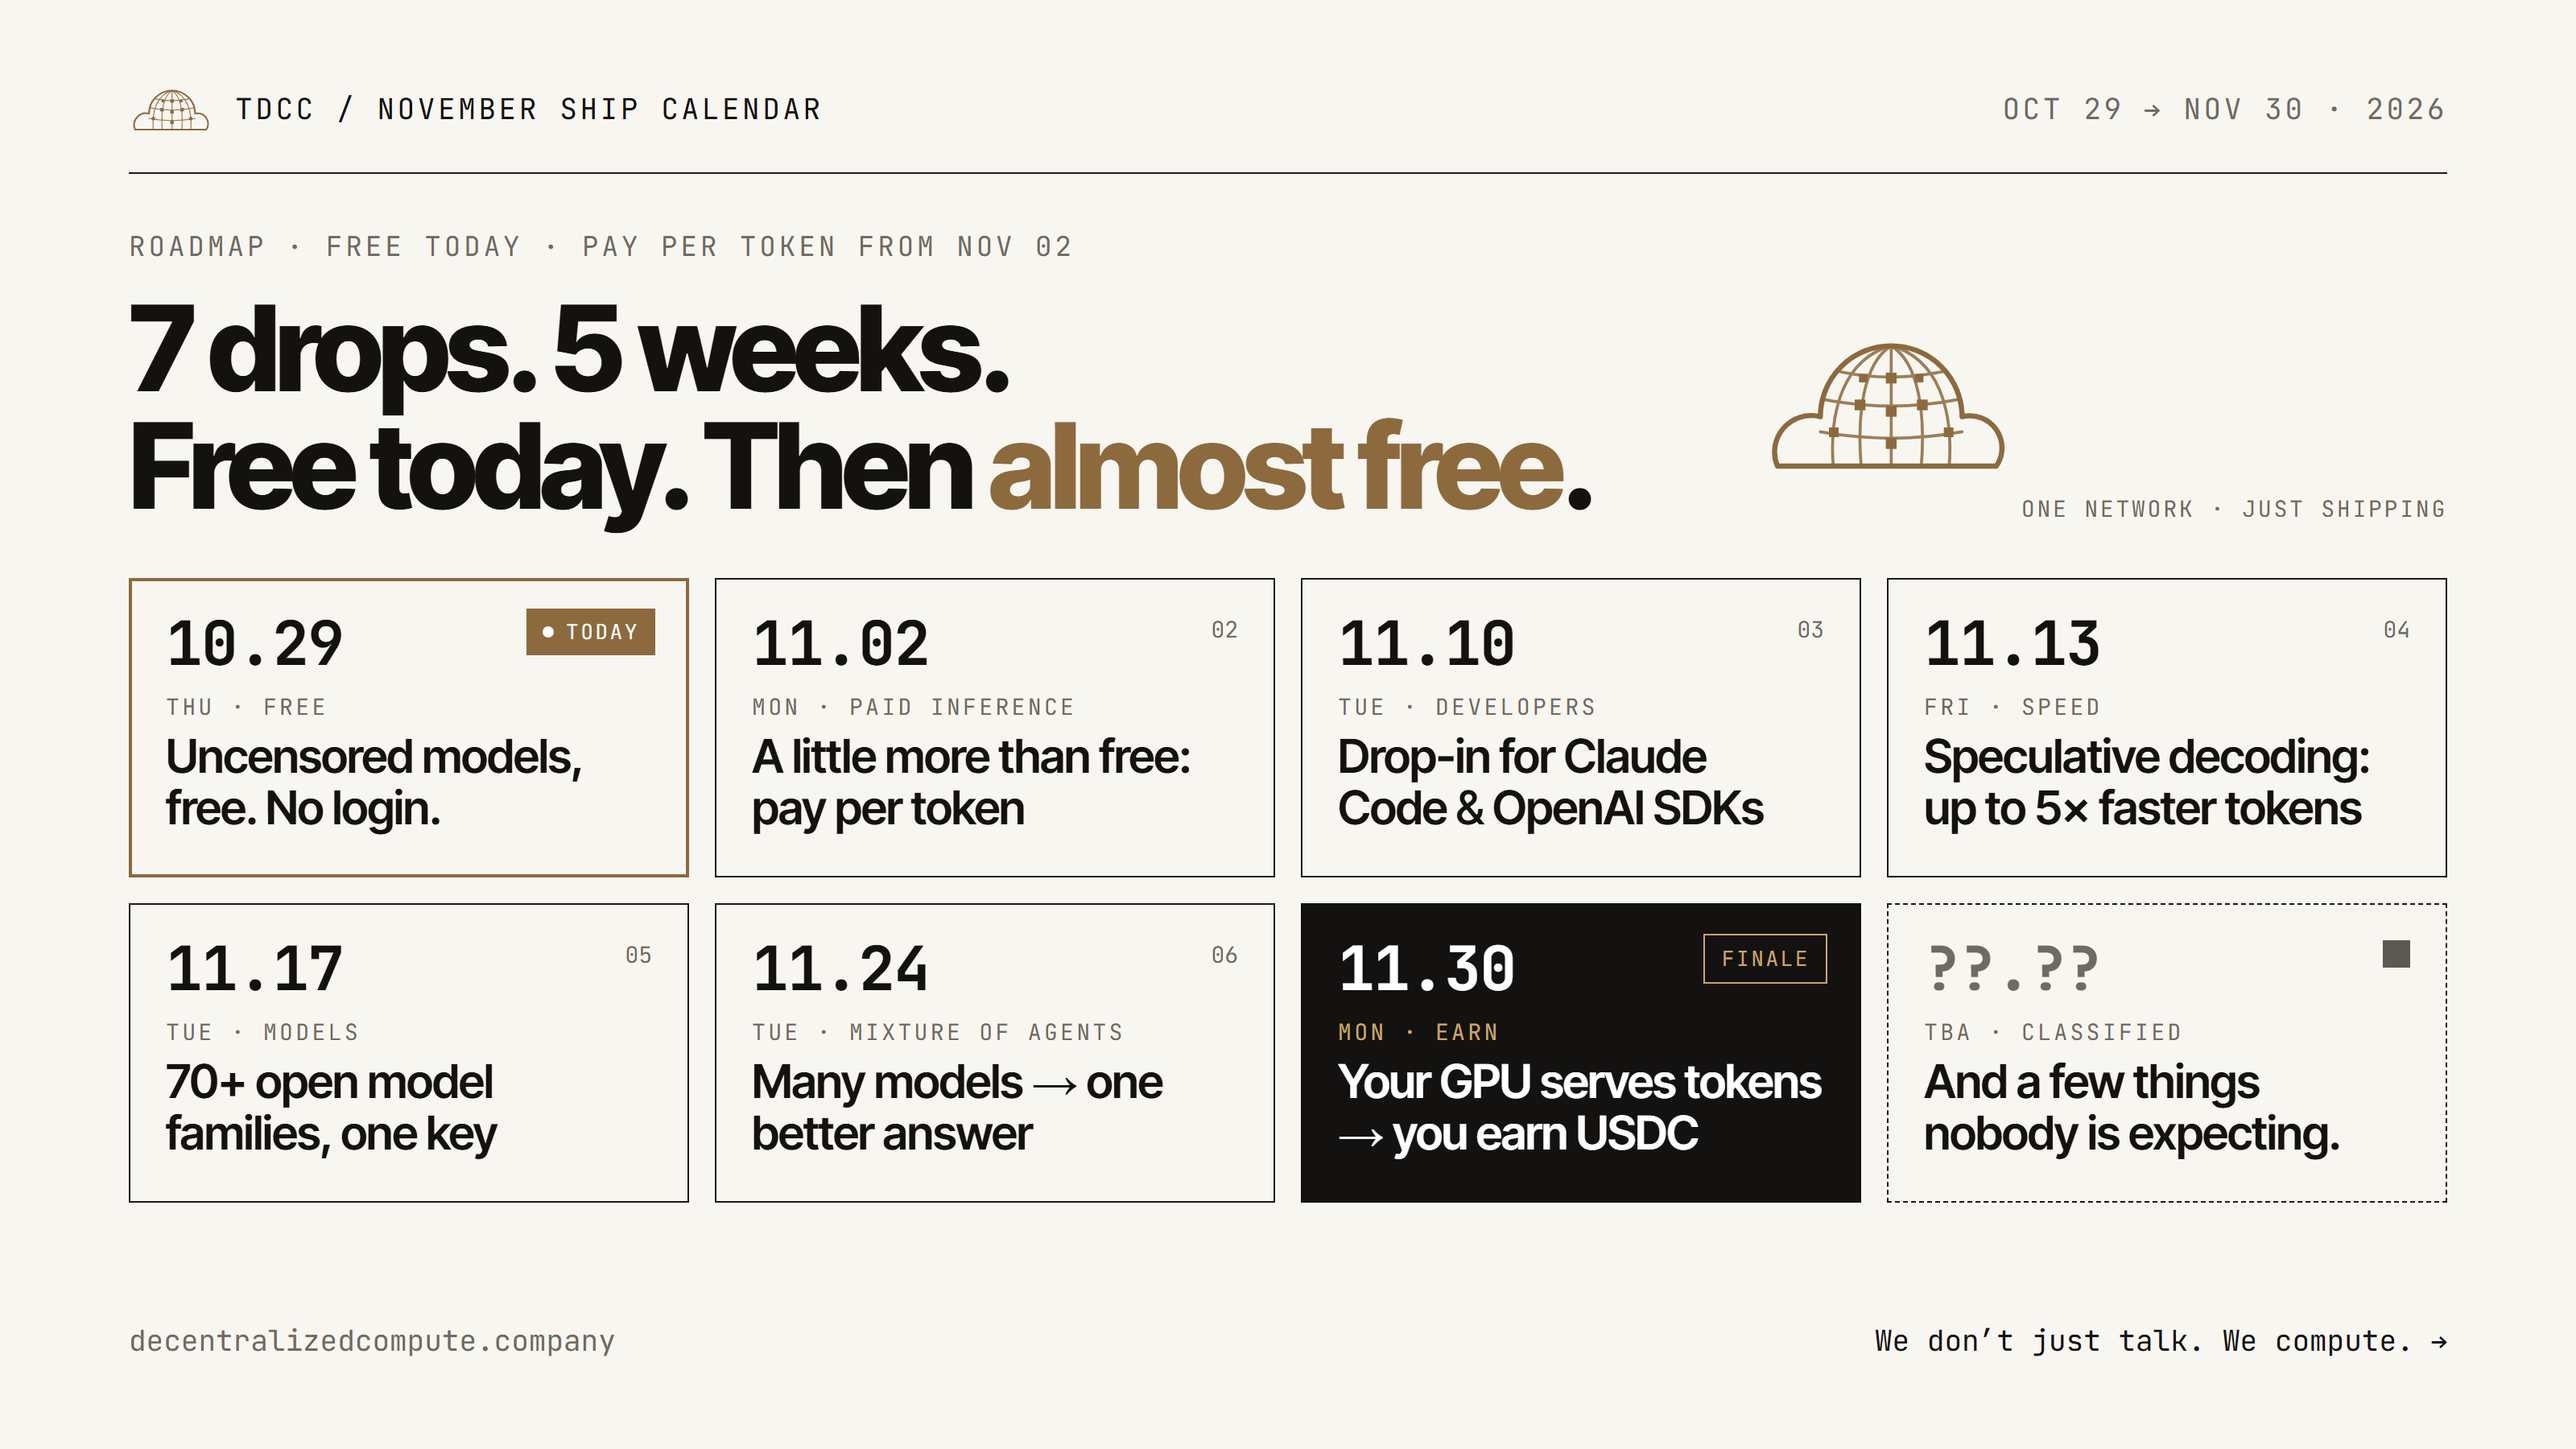
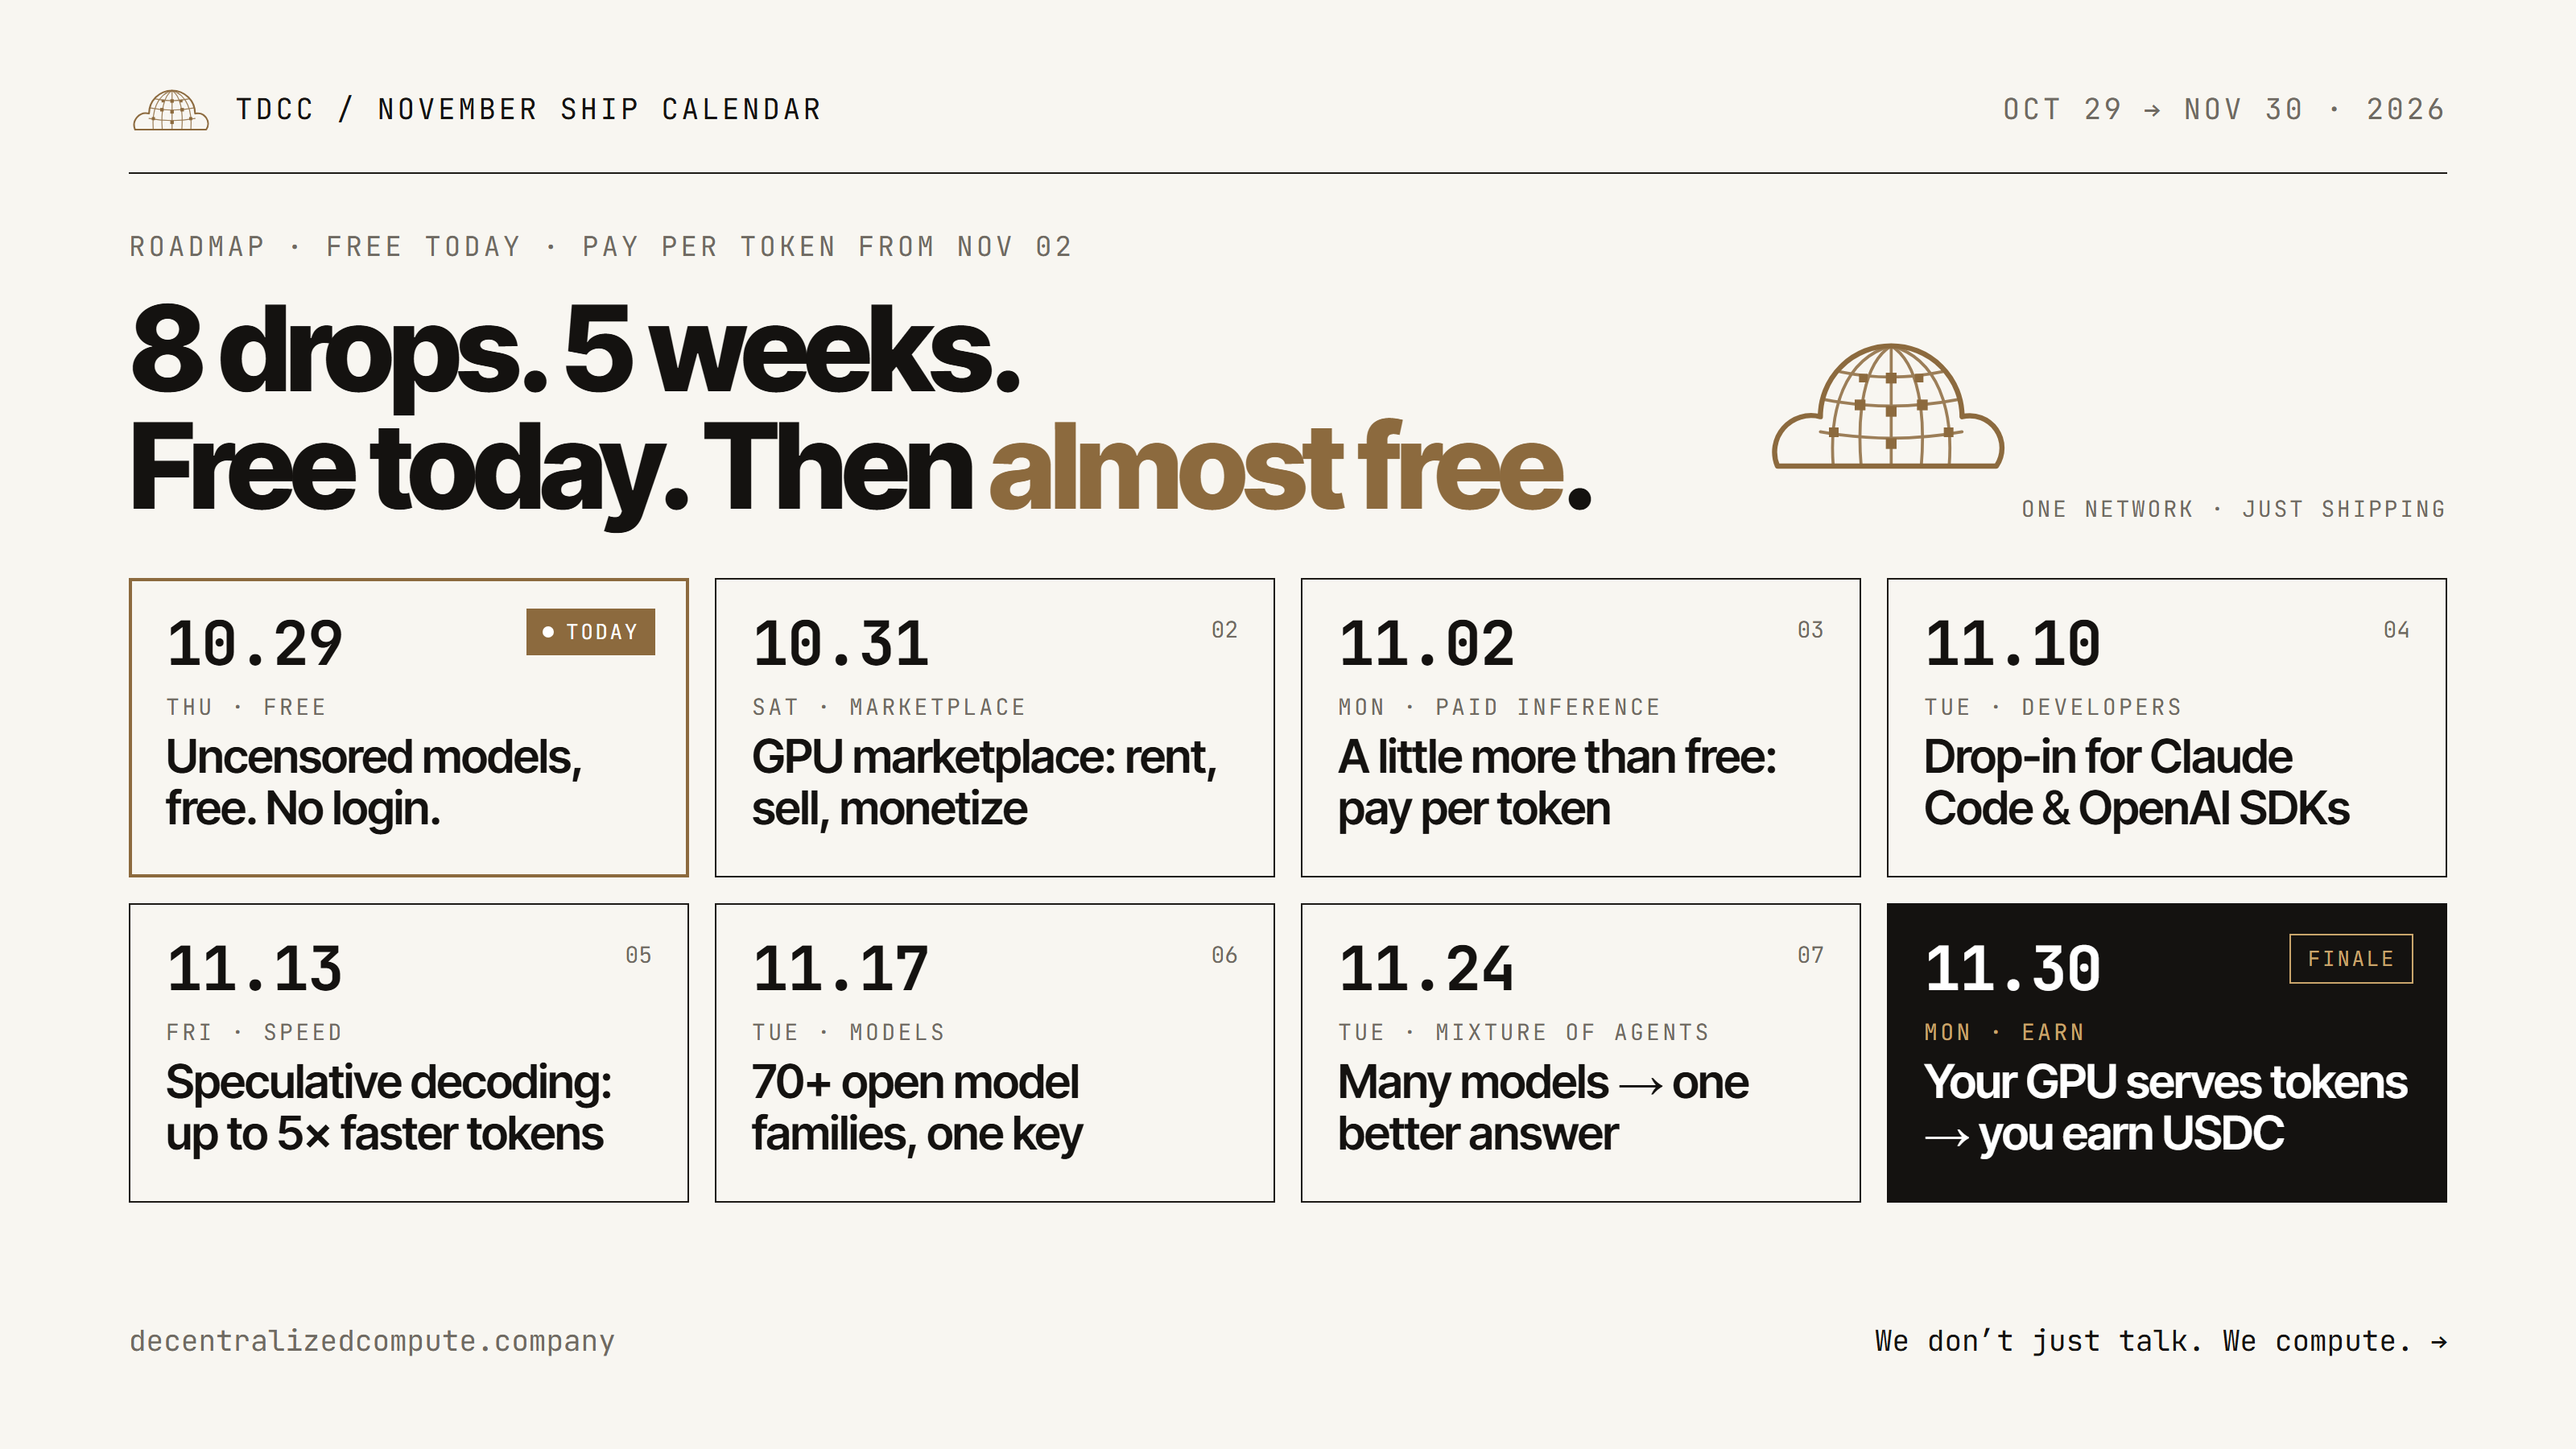
feat(social): add the Oct 31 marketplace drop and the X thread
The calendar now has 8 drops (Oct 31 GPU marketplace added, the TBA card
dropped). social/november-calendar-post.md holds the 10-post thread,
image alt text and the replies for each drop day.

diff --git a/social/november-ship-calendar.html b/social/november-ship-calendar.html
@@ -83,7 +83,7 @@
     <div class="head">
       <div>
         <div class="kicker">ROADMAP &middot; FREE TODAY &middot; PAY PER TOKEN FROM NOV 02</div>
-        <h1>7 drops. 5 weeks.<br />Free today. Then <span class="acc">almost free</span>.</h1>
+        <h1>8 drops. 5 weeks.<br />Free today. Then <span class="acc">almost free</span>.</h1>
       </div>
       <div class="mark">
         <svg aria-hidden="true"><use href="#mark" /></svg>
@@ -98,27 +98,32 @@
         <h3>Uncensored models, free. No login.</h3>
       </div>
       <div class="drop">
-        <div class="d">11.02</div><span class="n">02</span>
+        <div class="d">10.31</div><span class="n">02</span>
+        <div class="k">SAT &middot; MARKETPLACE</div>
+        <h3>GPU marketplace: rent, sell, monetize</h3>
+      </div>
+      <div class="drop">
+        <div class="d">11.02</div><span class="n">03</span>
         <div class="k">MON &middot; PAID INFERENCE</div>
         <h3>A little more than free: pay per token</h3>
       </div>
       <div class="drop">
-        <div class="d">11.10</div><span class="n">03</span>
+        <div class="d">11.10</div><span class="n">04</span>
         <div class="k">TUE &middot; DEVELOPERS</div>
         <h3>Drop-in for Claude Code <span class="arr">&amp;</span> OpenAI SDKs</h3>
       </div>
       <div class="drop">
-        <div class="d">11.13</div><span class="n">04</span>
+        <div class="d">11.13</div><span class="n">05</span>
         <div class="k">FRI &middot; SPEED</div>
         <h3>Speculative decoding: up to 5&times; faster tokens</h3>
       </div>
       <div class="drop">
-        <div class="d">11.17</div><span class="n">05</span>
+        <div class="d">11.17</div><span class="n">06</span>
         <div class="k">TUE &middot; MODELS</div>
         <h3>70+ open model families, one key</h3>
       </div>
       <div class="drop">
-        <div class="d">11.24</div><span class="n">06</span>
+        <div class="d">11.24</div><span class="n">07</span>
         <div class="k">TUE &middot; MIXTURE OF AGENTS</div>
         <h3>Many models <span class="arr">&rarr;</span> one better answer</h3>
       </div>
@@ -126,11 +131,6 @@
         <div class="d">11.30</div><span class="badge">FINALE</span>
         <div class="k">MON &middot; EARN</div>
         <h3>Your GPU serves tokens <span class="arr">&rarr;</span> you earn USDC</h3>
-      </div>
-      <div class="drop tba">
-        <div class="d">??.??</div><span class="sq"></span>
-        <div class="k">TBA &middot; CLASSIFIED</div>
-        <h3>And a few things nobody is expecting.</h3>
       </div>
     </div>
 

diff --git a/social/november-calendar-post.md b/social/november-calendar-post.md
@@ -1,0 +1,92 @@
+# November ship calendar: X thread
+
+Image: `assets/november-ship-calendar.png` (attach to post 1).
+
+Alt text for the image:
+> TDCC ship calendar, Oct 29 to Nov 30, 2026. "8 drops. 5 weeks. Free today. Then almost free."
+> Oct 29: uncensored models, free, no login. Oct 31: GPU marketplace. Nov 2: pay per token.
+> Nov 10: drop-in for Claude Code and OpenAI SDKs. Nov 13: speculative decoding, up to 5x faster tokens.
+> Nov 17: 70+ open model families, one key. Nov 24: mixture of agents. Nov 30: your GPU serves tokens, you earn USDC.
+
+---
+
+**1/10** (with image)
+
+8 drops. 5 weeks.
+Free today. Then almost free.
+
+Everything TDCC ships between now and Nov 30 👇
+
+**2/10**
+
+10.29 · Today
+
+Uncensored open models. Free.
+No login. No signup. No card.
+
+Open it and start chatting:
+chat.decentralizedcompute.company
+
+**3/10**
+
+10.31 · GPU marketplace opens
+
+Rent a GPU by the hour, or list your own and set your price.
+SSH, Jupyter or tdcc API access, closed automatically when your hours end.
+
+**4/10**
+
+11.02 · A little more than free
+
+Pay per token.
+Top up with USDC on Solana from $5, create an API key, use it anywhere.
+No subscription. Nothing is billed once your balance runs out.
+
+**5/10**
+
+11.10 · For developers
+
+Drop-in for Claude Code, Cursor and any OpenAI SDK.
+Change one URL, keep your tools.
+
+**6/10**
+
+11.13 · Speed
+
+Speculative decoding, in beta.
+Up to 5× faster token generation in our benchmarks.
+
+**7/10**
+
+11.17 · Models
+
+70+ open model families behind a single API key.
+
+**8/10**
+
+11.24 · Mixture of agents
+
+Several models answer. One combines the best of them into a single reply.
+
+**9/10**
+
+11.30 · Finale
+
+Your GPU serves tokens. You earn USDC.
+
+**10/10**
+
+We don't just talk. We compute.
+
+Every drop lands here first. Follow @computecompany
+decentralizedcompute.company
+
+---
+
+## Each drop day
+
+Reply to post 1 (so the thread stays one story) with a short post and, if you have one, a screenshot or a 10–20 s clip of the feature:
+
+- **10.31** "Marketplace is open. List your GPU or rent one: decentralizedcompute.company/marketplace.html"
+- **11.02** "Paid inference is live. $5 in USDC gets you started: decentralizedcompute.company/account.html#billing"
+- and so on for every card.
